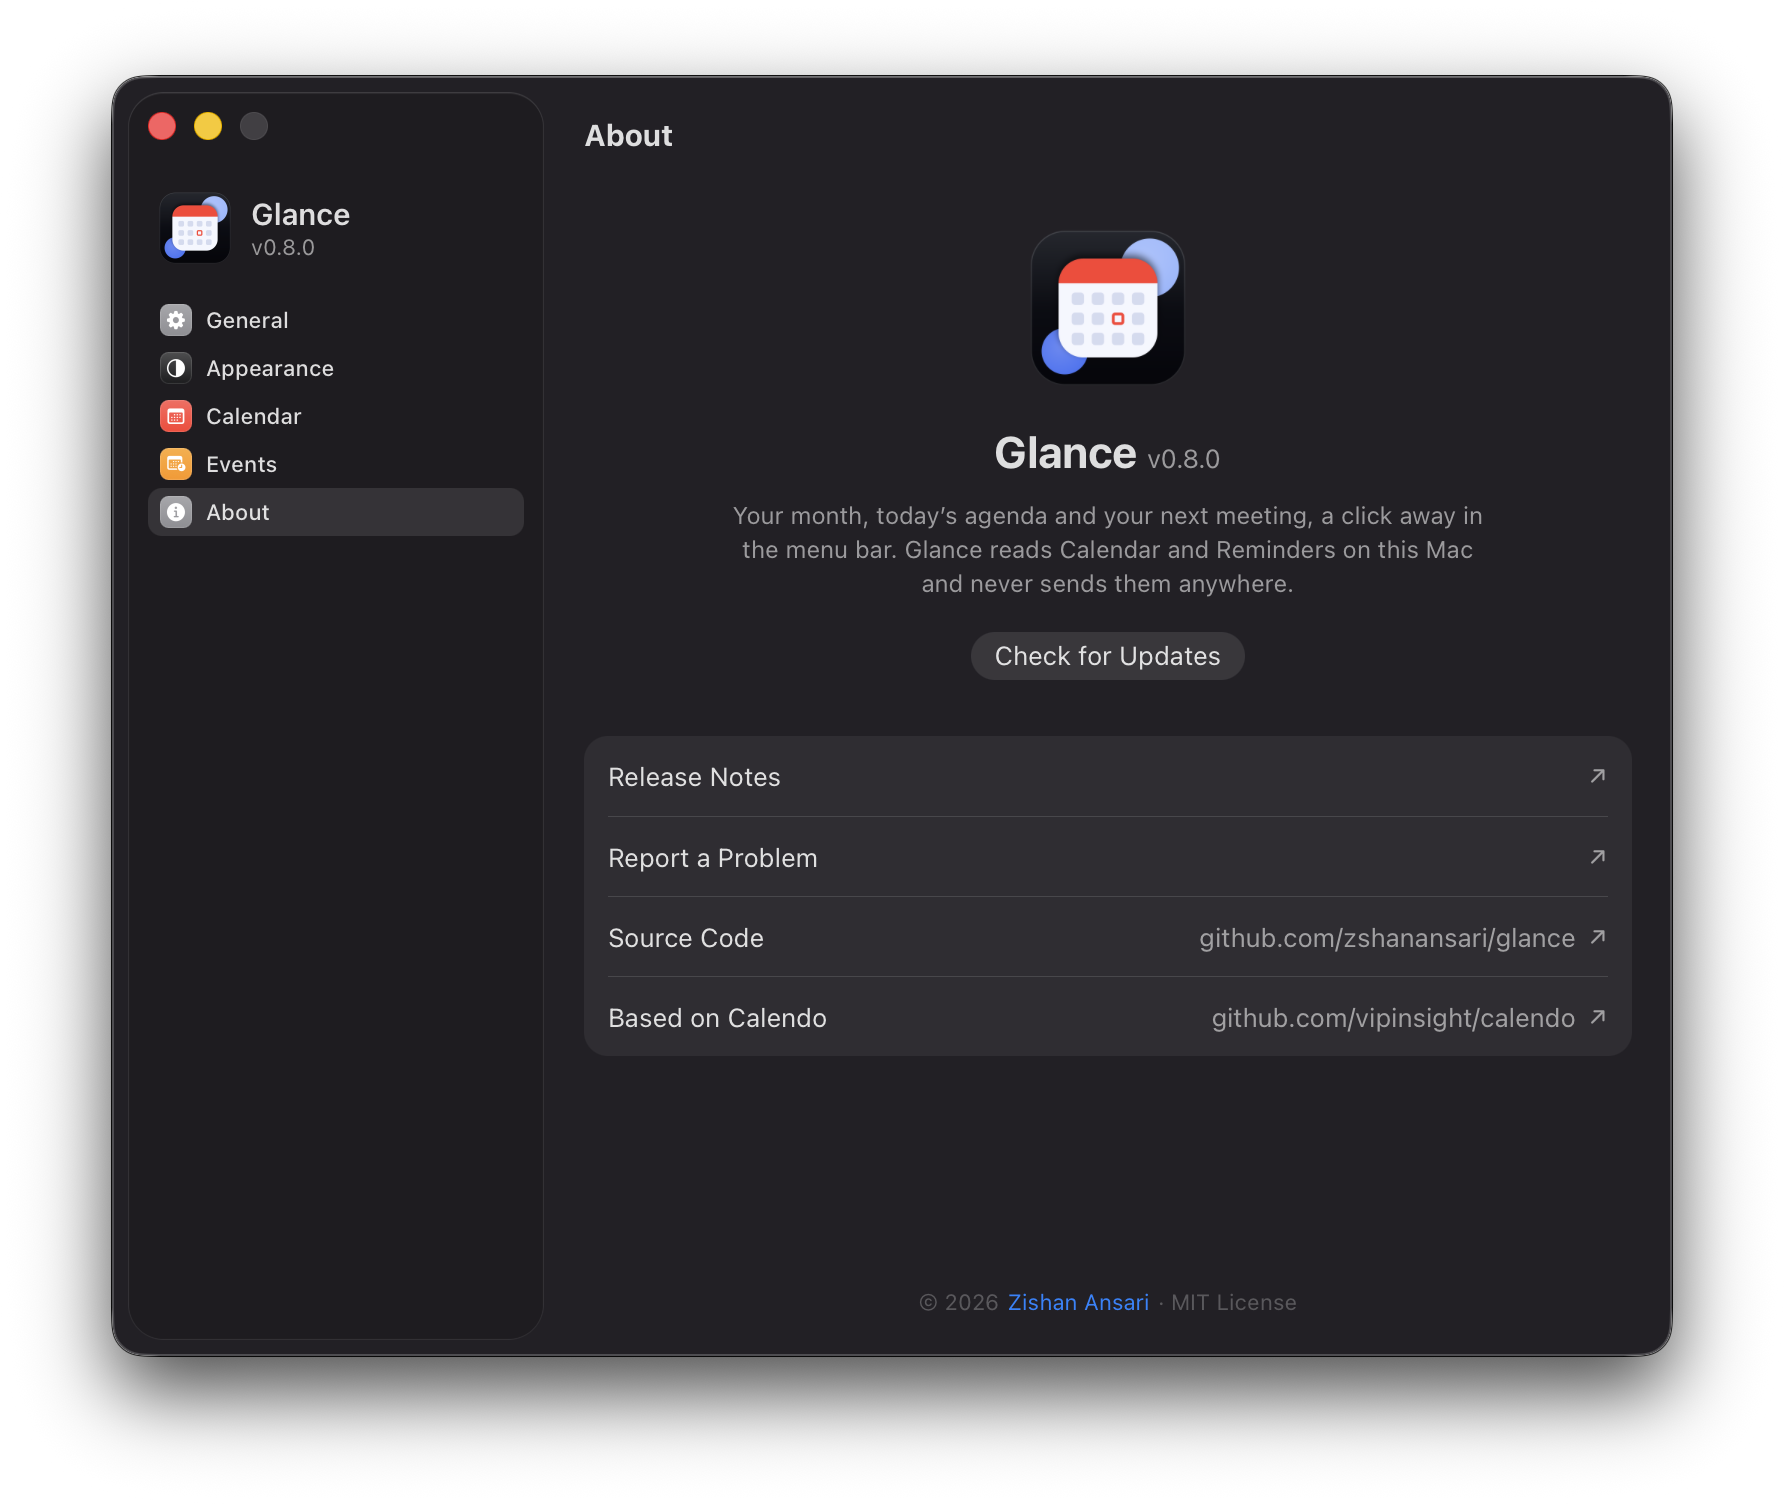
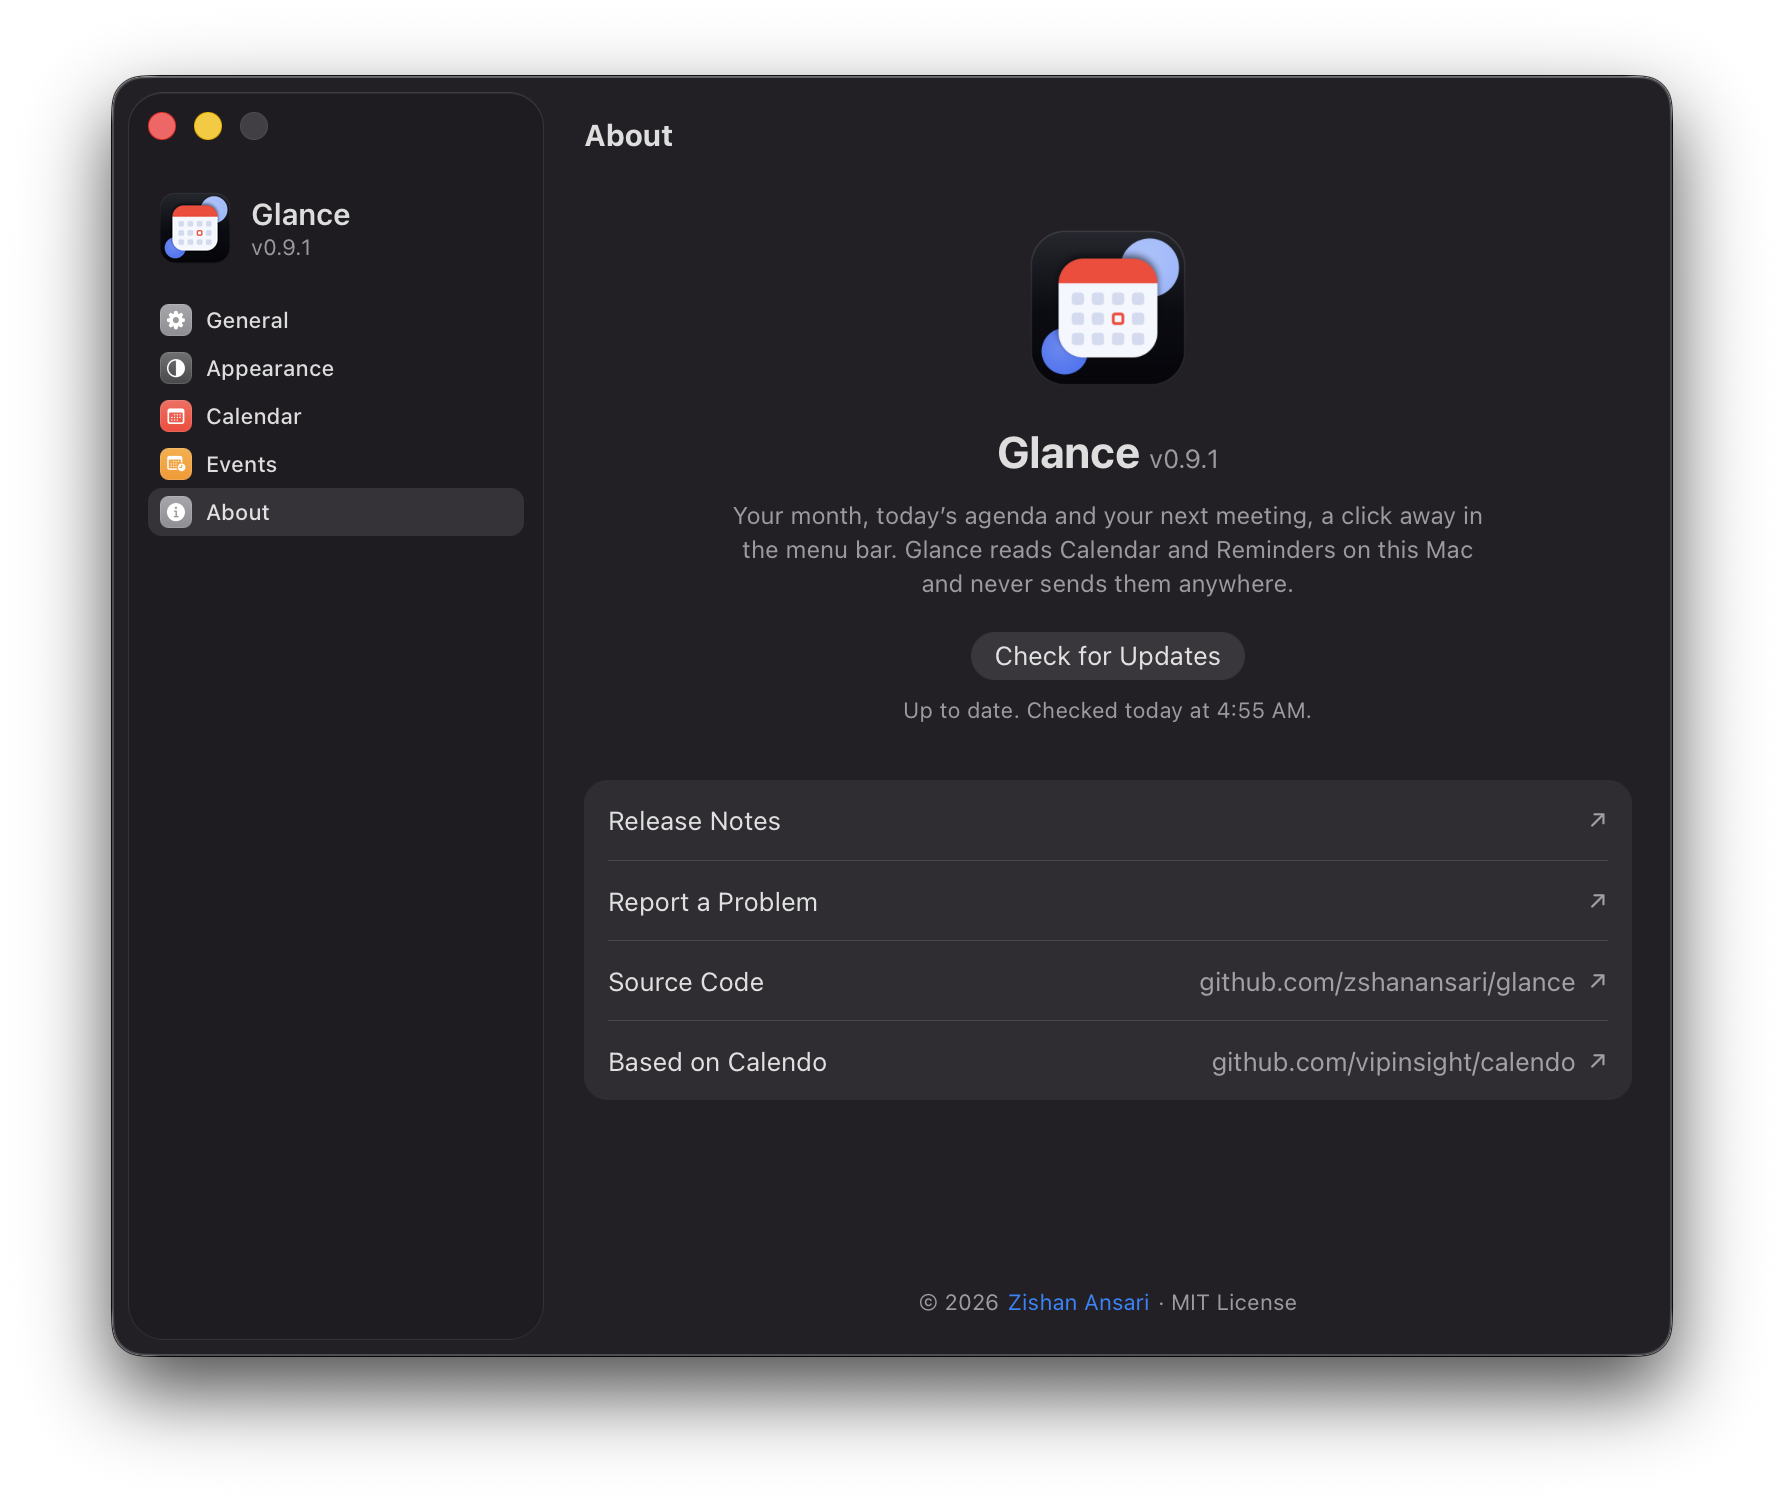
Release 0.9.1: About scrolls with notes open, a full-width failure message, and a README for 0.9.0
- The day heading no longer shrinks to "Frid…" while a failed open is
  reported; the message has the line to itself for its few seconds.
- README describes 0.9.0's features, with new Appearance, Events and About
  screenshots; the release guide documents --notes and the version check.
- Version 0.9.1, with its release notes.

diff --git a/src/renderer/calendar.css b/src/renderer/calendar.css
@@ -493,9 +493,21 @@ button:focus {
   color: var(--label);
 }
 
-/* A failed open or join, said where the count usually sits. */
+/* A failed open or join, said where the count usually sits. It has the
+   whole heading line to itself while it shows. */
 #day-events-count.is-failure {
   color: var(--calendar);
+}
+
+.day-events-heading.is-failing h2 {
+  display: none;
+}
+
+.day-events-heading.is-failing #day-events-count {
+  flex: 1;
+  overflow: hidden;
+  text-overflow: ellipsis;
+  white-space: nowrap;
 }
 
 .day-event-join {

diff --git a/src/renderer/calendar.ts b/src/renderer/calendar.ts
@@ -407,6 +407,9 @@ function startCalendar(api: DesktopApi): void {
       day: "numeric",
     }).format(selectedDate);
     dayEventsCount.classList.toggle("is-failure", failure !== null);
+    // The message takes the whole line for its few seconds, rather than
+    // squeezing the date to "Frid…".
+    dayEventsCount.parentElement?.classList.toggle("is-failing", failure !== null);
     dayEventsCount.textContent =
       failure ??
       (selectedEvents.length

diff --git a/README.md b/README.md
@@ -8,26 +8,33 @@ Apple Silicon Macs on macOS 13 or newer. Intel Macs can build it from source.
 <p align="center">
   <img src="docs/screenshots/menubar.png" alt="The month calendar open under its menu bar icon, with the selected day's events" width="300">
   &nbsp;&nbsp;
-  <img src="docs/screenshots/settings.png" alt="Settings, laid out like System Settings, with a row of colors for today" width="560">
+  <img src="docs/screenshots/settings.png" alt="Settings → Appearance, laid out like System Settings: four menu bar styles, each named, and the theme" width="560">
 </p>
 
 ## Features
 
 - **This month, next to the clock.** Click the date for the month, with a dot
   under every day that has events. Pick a day to see its events, open one in
-  Calendar, or join a meeting from it.
+  Calendar, or join a meeting from it. Today's finished meetings fold into an
+  “N earlier” line, and declined ones are struck through.
 - **Feels like part of macOS.** The popover opens and closes like a system
   menu, in the system font and colors, and follows light and dark. Today and
   the day you pick take red, your accent, or any of the system colors.
   Settings is laid out like System Settings, with SF Symbols.
 - **What’s next.** Optionally, the menu bar item counts down to the next
-  calendar event or scheduled reminder after the date, as in “• in 25m”.
-  Done with a meeting early? Stop its countdown from the day’s list.
+  calendar event or scheduled reminder after the date, as in “• in 25m”. A
+  meeting about to start takes over from a long block still running, and the
+  day’s list marks the same meeting. Done with one early? Stop its countdown
+  from the list.
 - **Never late to a call.** A minute before a meeting with a link starts, a
   small card under the menu bar item offers Join, without taking focus.
+  Skip the meeting from it, or press Escape to put it away.
 - **Your calendars, your lists.** Settings → Events chooses the look-ahead,
-  which events qualify, when the countdown appears, and which calendars and
-  reminder lists it reads.
+  which events qualify and when the countdown appears; Settings → Calendar
+  chooses which calendars and reminder lists Glance reads at all.
+- **Keyboard and VoiceOver.** The month, Settings and the reminder card work
+  from the keyboard. VoiceOver reads the menu bar item as the full date and
+  your next meeting, and Glance follows Increase Contrast.
 - **Stays on this Mac.** Calendar and Reminders are read locally. Nothing is
   uploaded, and Join only ever opens a link to a known meeting service.
 
@@ -45,7 +52,7 @@ the first time a system-wide shortcut fires.
 <p align="center">
   <img src="docs/screenshots/events.png" alt="Settings → Events: the menu bar countdown, which events it counts, and the meeting reminder" width="420">
   &nbsp;
-  <img src="docs/screenshots/about.png" alt="Settings → About: the app icon, name and version, Check for Updates, and links" width="420">
+  <img src="docs/screenshots/about.png" alt="Settings → About: the app icon, name and version, Check for Updates with when it last checked, and links" width="420">
 </p>
 
 ## Install
@@ -57,9 +64,11 @@ Glance to Applications.
 Releases are not notarized yet, so the first launch needs a right-click on
 Glance in Applications, then **Open**. After that it opens normally.
 
-Installed copies can update themselves from Settings → About. Automatic
+Installed copies can update themselves from Settings → About, which also says
+when Glance last checked and what’s new in a waiting release. Automatic
 updates are on by default; switched off, Glance still checks and puts a dot on
-its menu bar icon when a release is ready.
+its menu bar icon when a release is ready. Checking by hand always asks before
+it installs.
 
 To build from source:
 

diff --git a/docs/release.md b/docs/release.md
@@ -46,6 +46,17 @@ Then the script:
 4. Writes `latest.json` next to the DMG, pointing at this version’s GitHub
    download URL.
 
+With `--notes docs/release-notes/v<version>.md`, the notes go into
+`latest.json`, and installed copies show them under “What’s new” in Settings →
+About before updating. Without it, the notes are a link to the release page.
+Write the notes first: the file is read before the build starts. The script
+also refuses to start if the three version numbers disagree.
+
+`pnpm dmg:unnotarized` does the same without Apple's notarization, for a
+project with no Developer ID yet. `NOTARY_PROFILE` (a
+`xcrun notarytool store-credentials` profile) keeps the Apple password in the
+Keychain instead of passing it on the command line.
+
 When it finishes it prints the three files to upload.
 
 If the build stops with `can't find crate for serde_derive` (or another

diff --git a/docs/release-notes/v0.9.1.md b/docs/release-notes/v0.9.1.md
@@ -1,0 +1,7 @@
+A small follow-up to 0.9.0.
+
+- About no longer squeezes its links when a new version's notes are open; the page scrolls instead.
+- When an event or meeting link fails to open, the message now has the heading line to itself instead of shortening the date to "Frid…".
+- The README and release guide describe what's new in 0.9.0.
+
+On 0.9.0, Check for Updates in Settings → About shows these notes under "What's new" before you install.
